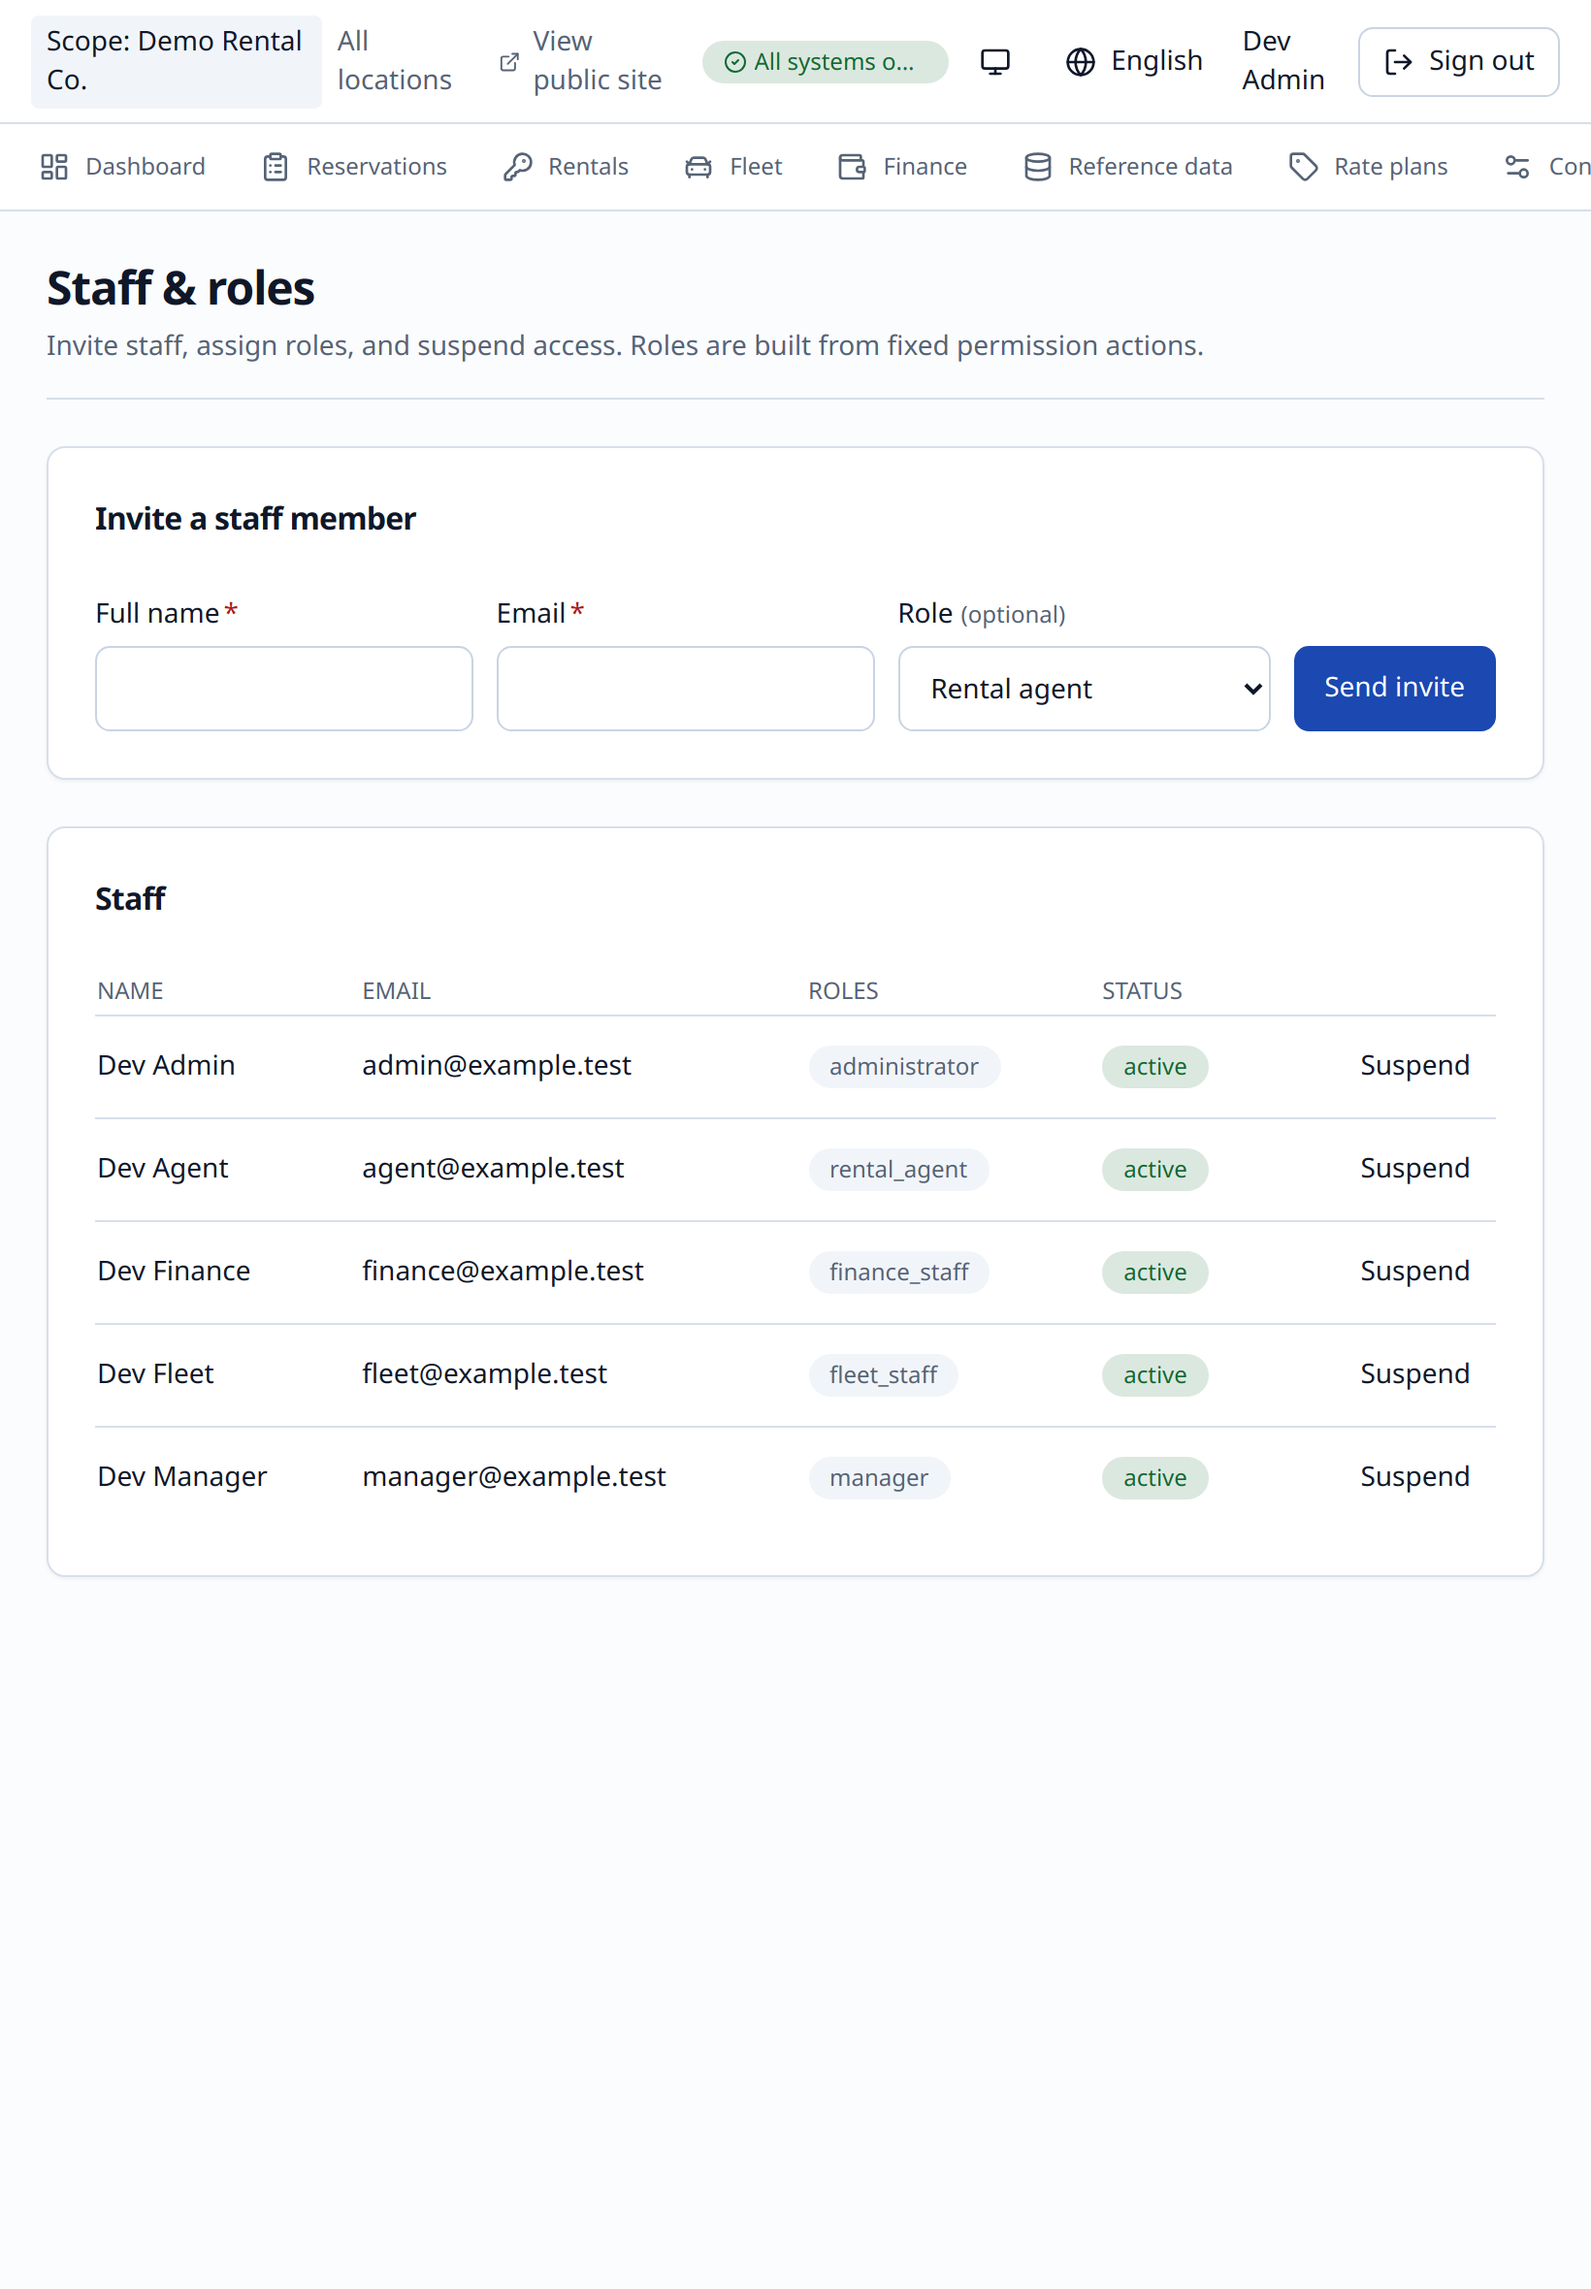
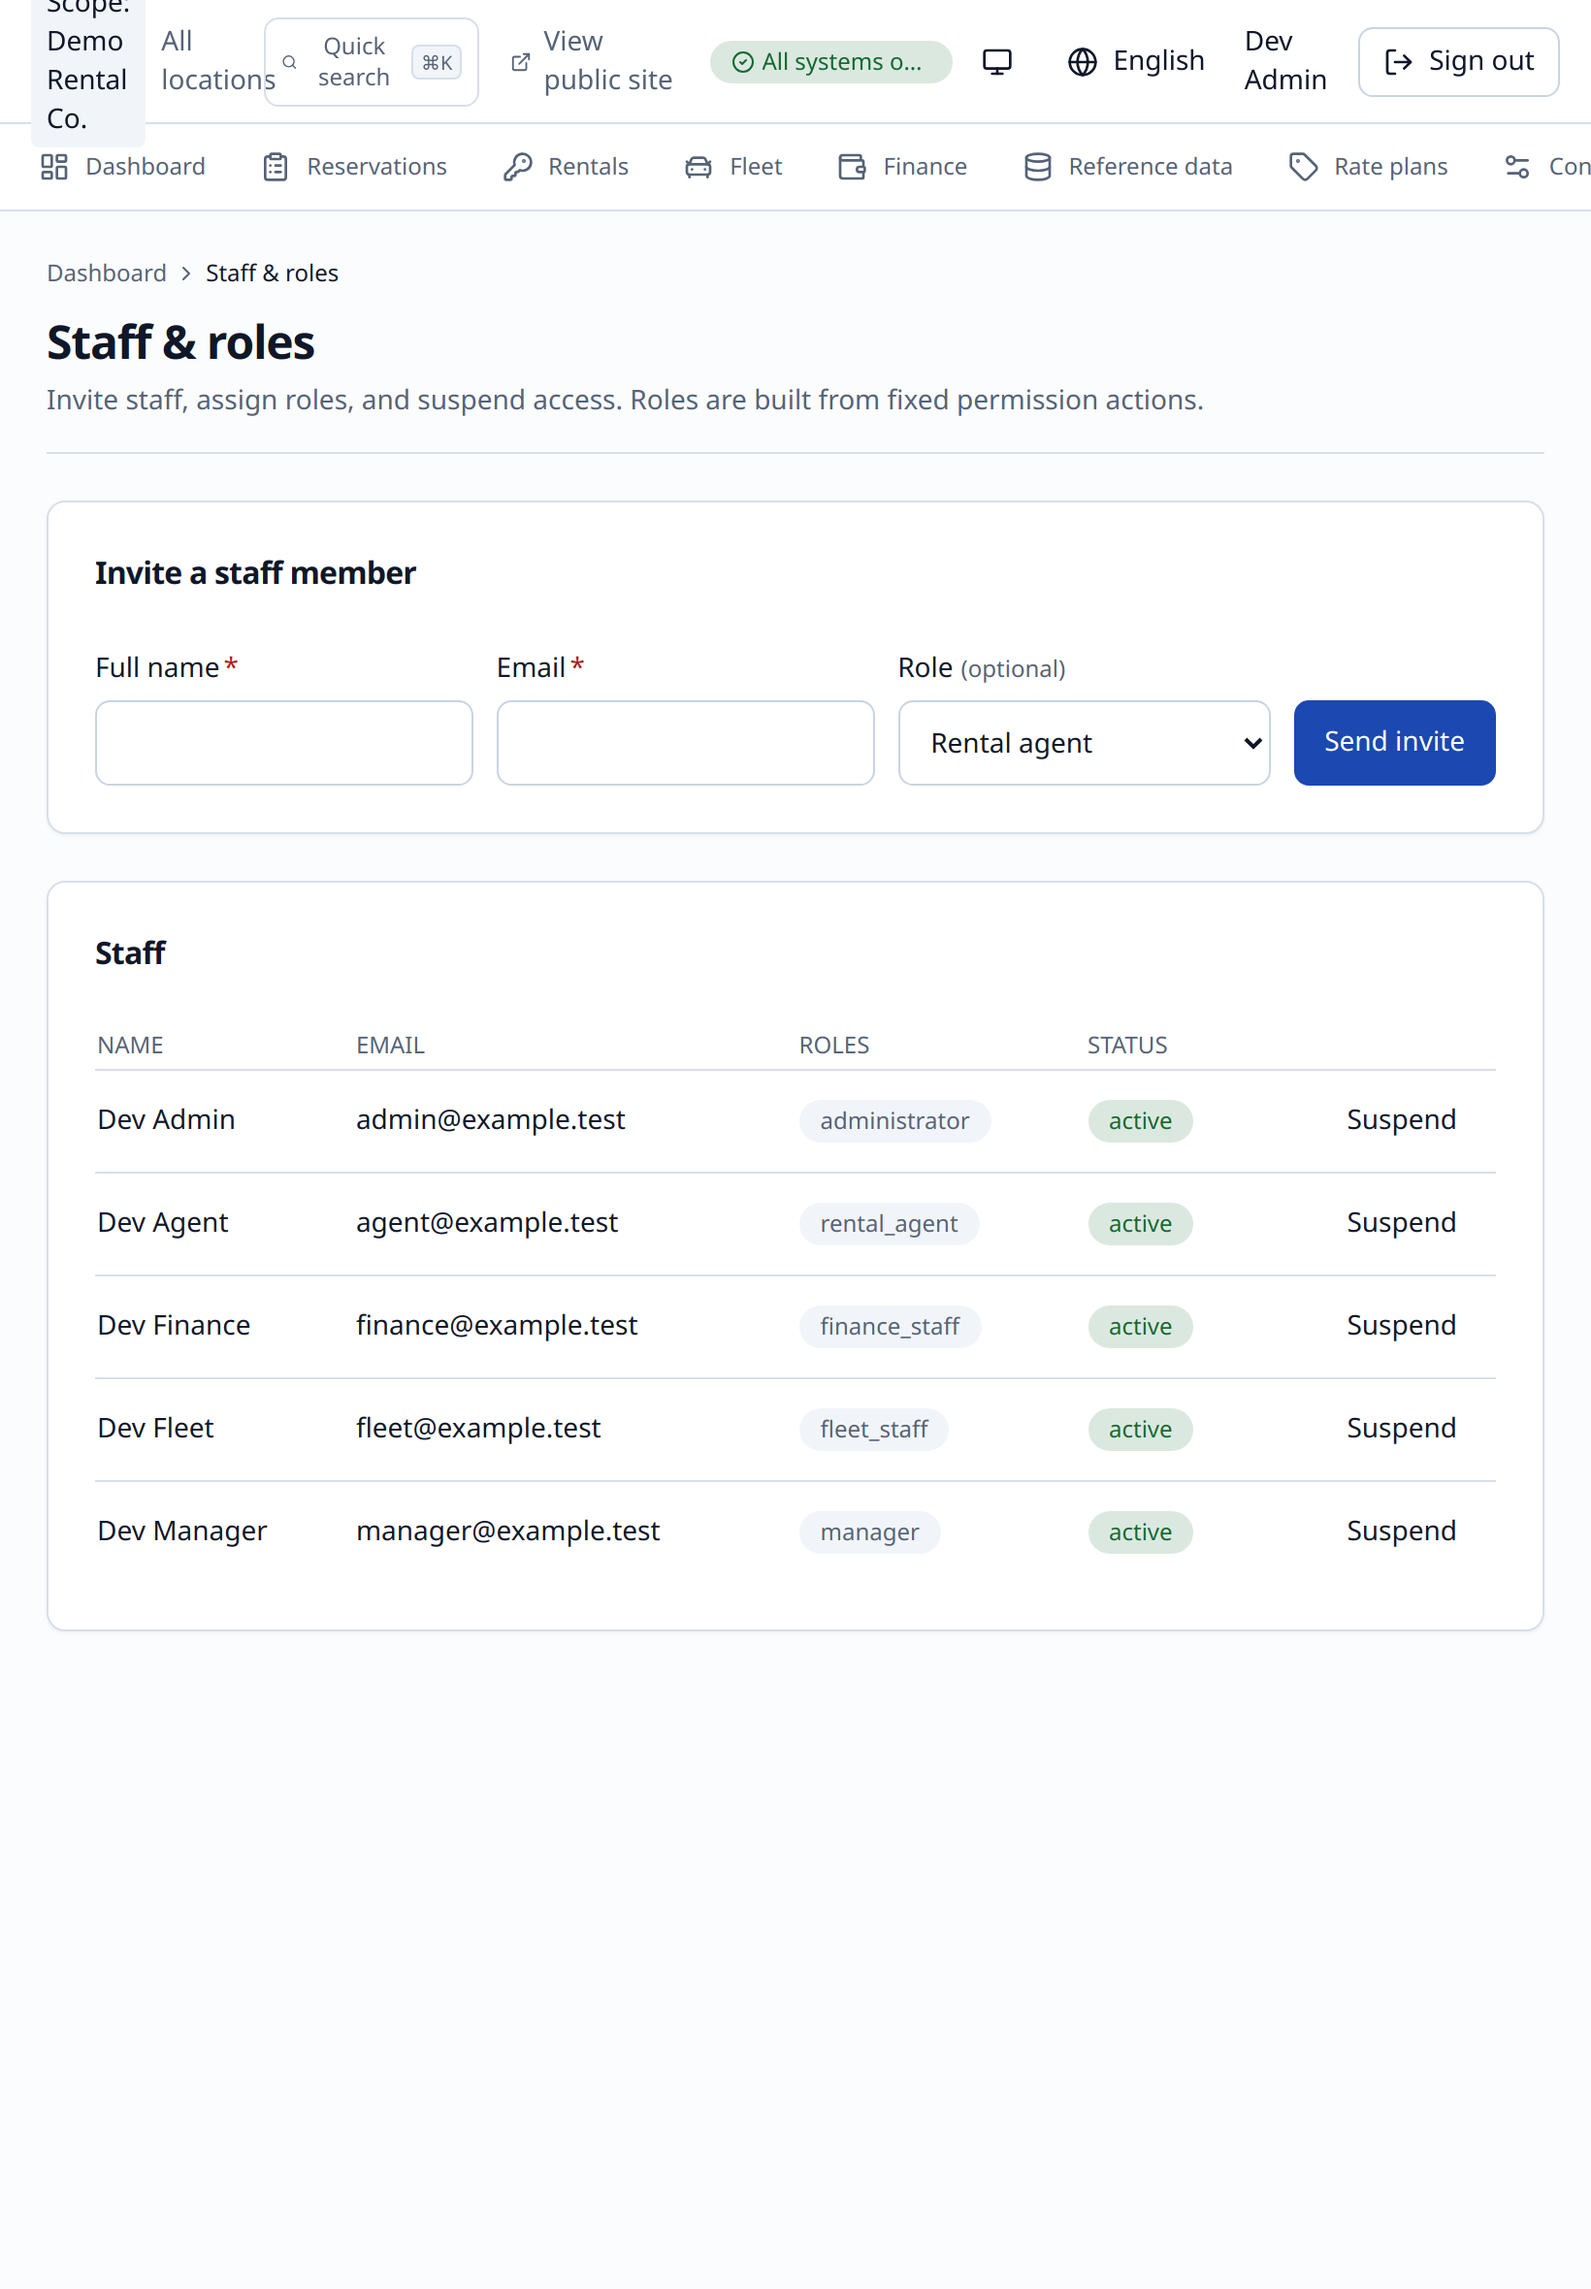
docs(STAGE-012): breadcrumbs + verify:a11y sweep green
Claude-Session: https://claude.ai/code/session_01BE15LMiieTzs12a7Epcp2e

diff --git a/docs/ai-delivery/04-implementation/stages/STAGE-012-ops-dashboard-ux/checkpoint.md b/docs/ai-delivery/04-implementation/stages/STAGE-012-ops-dashboard-ux/checkpoint.md
@@ -3,8 +3,10 @@
 - **Status:** IN PROGRESS. Shell/nav, `PageHeader` on all screens, grouped nav, per-page i18n,
   and density were landed in earlier sessions (see `enhancement-program.md` row 012). This
   session added the shared `DataTable` primitive + adoption across every tabular `/ops` screen,
-  and the command palette. Remaining: `FormLayout` / `DetailLayout` primitives, breadcrumbs,
-  the per-screen a11y sweep, and the before/after evidence bundle (→ STAGE-013).
+  the command palette, and the breadcrumb trail; the `verify:a11y` sweep is green. Remaining:
+  `FormLayout` / `DetailLayout` primitives (deferred until a consuming screen needs them —
+  the heavy-flow reworks / deferred features), and the before/after evidence bundle
+  (→ STAGE-013).
 
 ## Completed — this session (2026-09-08)
 
@@ -48,6 +50,23 @@ wrapping rows with inline actions), the `translations` per-key inline-edit `<ul>
   navigates, `Esc` closes (Radix owns the focus trap). `sr-only` `DialogTitle` /
   `DialogDescription`. Keys `ops.cmdk.{open,placeholder,empty,hint}`. **5 unit tests**.
 
+### Breadcrumbs
+
+- `apps/web/src/surfaces/ops/breadcrumbs.tsx` — above `<Outlet>` for an authed staff session.
+  The ops router is flat, so the trail is `Dashboard › [Configuration] › <screen>`: `/config/*`
+  screens get the real `/config` page as a middle crumb, everything else is two levels. Labels
+  - reachability come from the same permission-filtered nav list; an unmapped trailing segment
+    (a future `/work/:ref`) falls back to the raw segment. RTL-aware chevron. Key
+    `ops.nav.breadcrumb`. **4 unit tests**.
+
+### Accessibility
+
+- `verify:a11y` (axe-core, WCAG 2.1 A/AA) over `/ops`, `/ops/work`, `/ops/rentals`,
+  `/ops/fleet`, `/ops/config`, `/ops/insights`, `/ops/audit`, `/ops/config/reference-data`
+  (laptop project, light + the a11y spec's runs) — **0 serious/critical**, with the new
+  `DataTable` markup, command-palette trigger, and breadcrumb in place. `rtl` +
+  `responsive` specs green on phone / tablet / laptop (no overflow LTR or RTL).
+
 ## Verified — this session
 
 - `pnpm --filter @carrental/web typecheck | lint | build` — green.
@@ -63,11 +82,11 @@ wrapping rows with inline actions), the `translations` per-key inline-edit `<ul>
 ## Not done yet
 
 - `FormLayout` (section groups, sticky save bar, dirty guard) + `DetailLayout` (summary rail +
-  tabbed body) primitives; apply `DetailList` to the trip/reservation/rental detail panels.
-- Breadcrumbs for the nested `/config/*` routes.
-- Per-screen a11y sweep — `verify:a11y` (axe, light + dark) 0 serious/critical on every `/ops`
-  screen; keyboard operability + live-region announcements on the async flows.
+  tabbed body) primitives — deferred until a consuming screen needs them (the heavy-flow
+  reworks / the STAGE-005/006 deferred features, which are detail-panel + sectioned-form
+  shaped). `DetailList` is built + exported for them; no current `/ops` screen is a good fit.
 - Short-flow reworks of the heavy screens (config draft→approve in ≤3 visible steps; report
-  run as a 2-pane builder; fleet add/maintenance as one sectioned form; queue bulk actions).
+  run as a 2-pane builder; fleet add/maintenance as one sectioned form; queue bulk actions) —
+  folded into the deferred-feature work.
 - Before/after evidence bundle: all `/ops` screens, light + dark, 3 viewports, 2 brand presets;
   flow click-count table vs. the STAGE-006/007 baseline (→ folded into STAGE-013).
